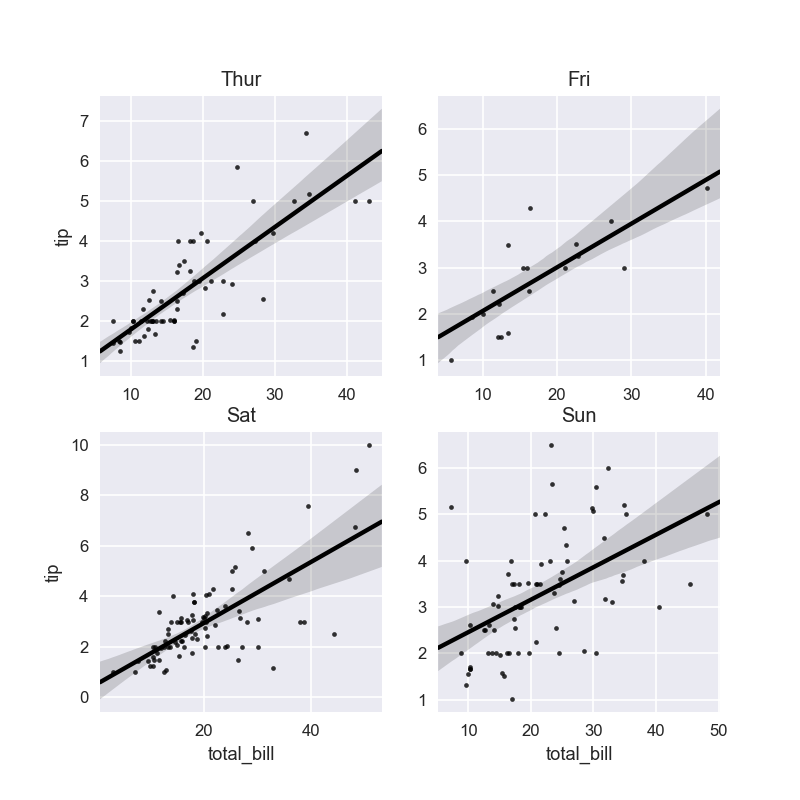
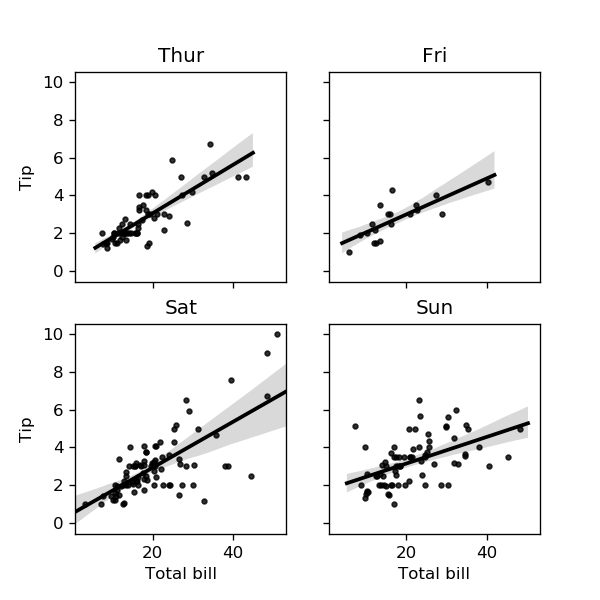
Update readme

diff --git a/README.md b/README.md
@@ -57,7 +57,8 @@ from seahorse import gwrap, SContainer
 df = gwrap.sns.load_dataset("tips")
 sc = SContainer(df, 2, 2)
 sc.groupby("day").sns.regplot("total_bill", "tip", color="black", scatter_kws={'s' : 8})
-
+sc.set_labels("Total bill", "Tip")
+sc.share_axes()
 ```
 
 ![Example image](https://github.com/jsgounot/Seahorse/blob/master/Examples/scontainer_gb.png)
